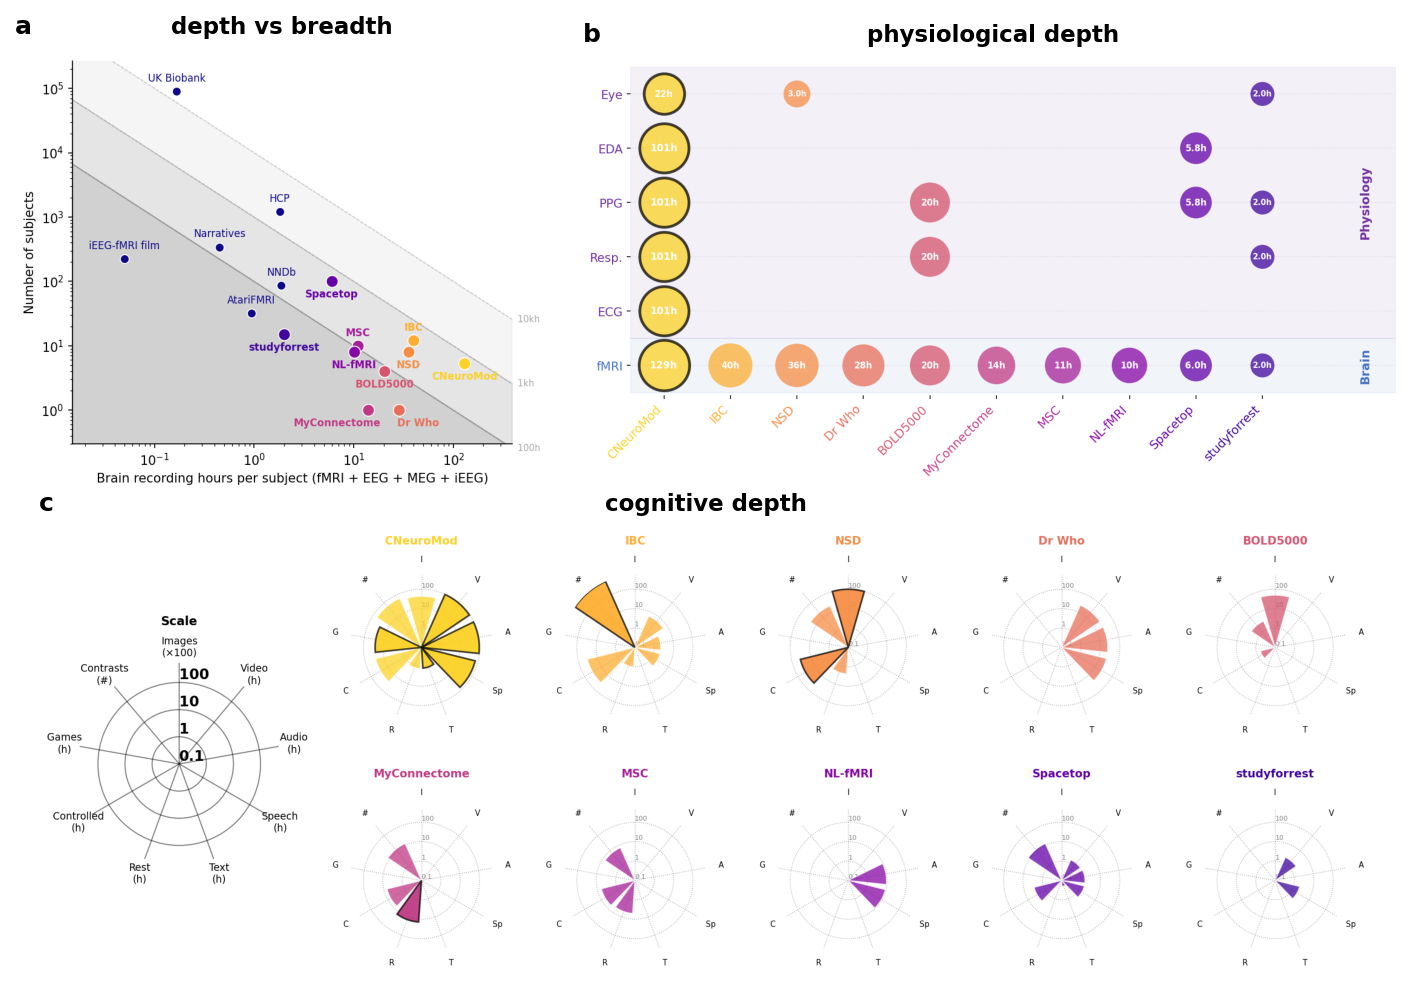
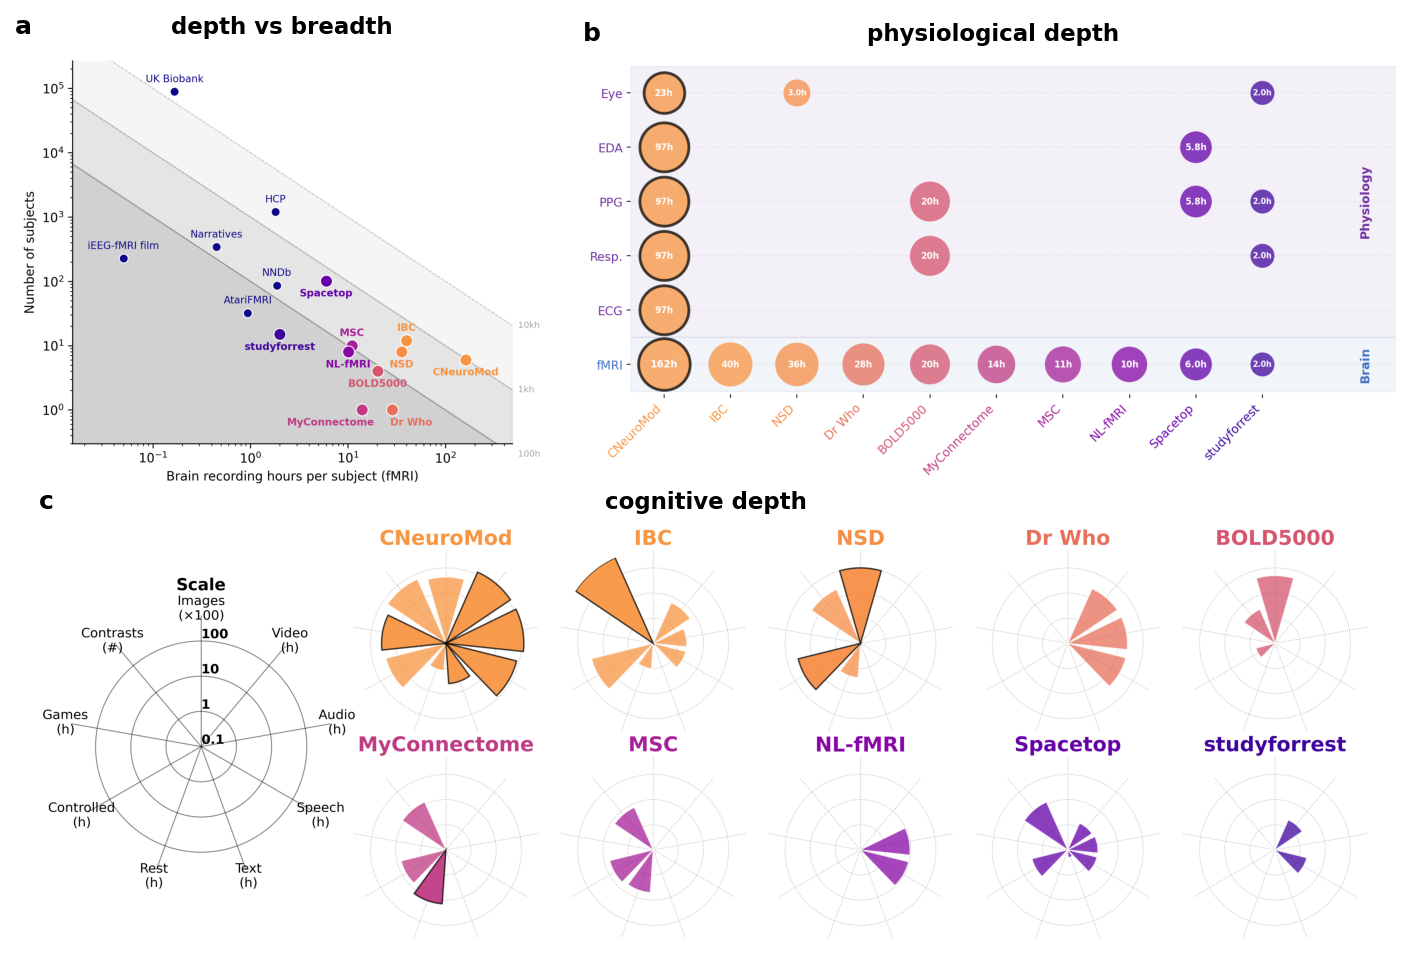
Fix duplicated Figure 1 in the introduction
The plotting cell displayed the montage inline while the figure
directive below it showed a committed snapshot of the same plot. The
cell is now removed from the output and regenerates the snapshot on
executed builds; non-executed builds fall back to the committed PNG.

Also refreshes the PNG from the current dataset_comparison outputs.

diff --git a/paper/intro.md b/paper/intro.md
@@ -32,7 +32,11 @@ A parallel tradition has pursued depth: recording from a small number of individ
 CNeuroMod stands out as the largest per-subject resource in naturalistic video and videogame categories by a wide margin. In the static image domain — dominated by the Natural Scenes Dataset (NSD), which exposes subjects to ~10,000 unique images — CNeuroMod offers ~4,300 unique image presentations per subject, placing it in the same tier while adding cross-domain coverage that NSD does not provide. Across physiology and brain recording modalities, CNeuroMod is consistently among the most richly instrumented resources.
 
 ```{code-cell} python3
-:tags: [hide-input]
+:tags: [remove-cell]
+# Regenerates figures/fig1_dataset_landscape.png (shown by the figure directive below)
+# when the book is built with --execute; the committed PNG is used otherwise.
+import matplotlib
+matplotlib.use("Agg")
 import matplotlib.pyplot as plt
 import matplotlib.gridspec as gridspec
 import matplotlib.image as mpimg
@@ -91,7 +95,9 @@ ax_c.text(0.0,  1.03, 'c',               transform=ax_c.transAxes,
 ax_c.text(0.5,  1.03, 'cognitive depth', transform=ax_c.transAxes,
           fontsize=11, fontweight='bold', va='bottom', ha='center', clip_on=False)
 
-plt.show()
+out_dir = next(p for p in (Path("paper/figures"), Path("figures")) if p.exists())
+fig.savefig(out_dir / "fig1_dataset_landscape.png", dpi=150, bbox_inches="tight")
+plt.close(fig)
 ```
 
 :::{figure} figures/fig1_dataset_landscape.png
